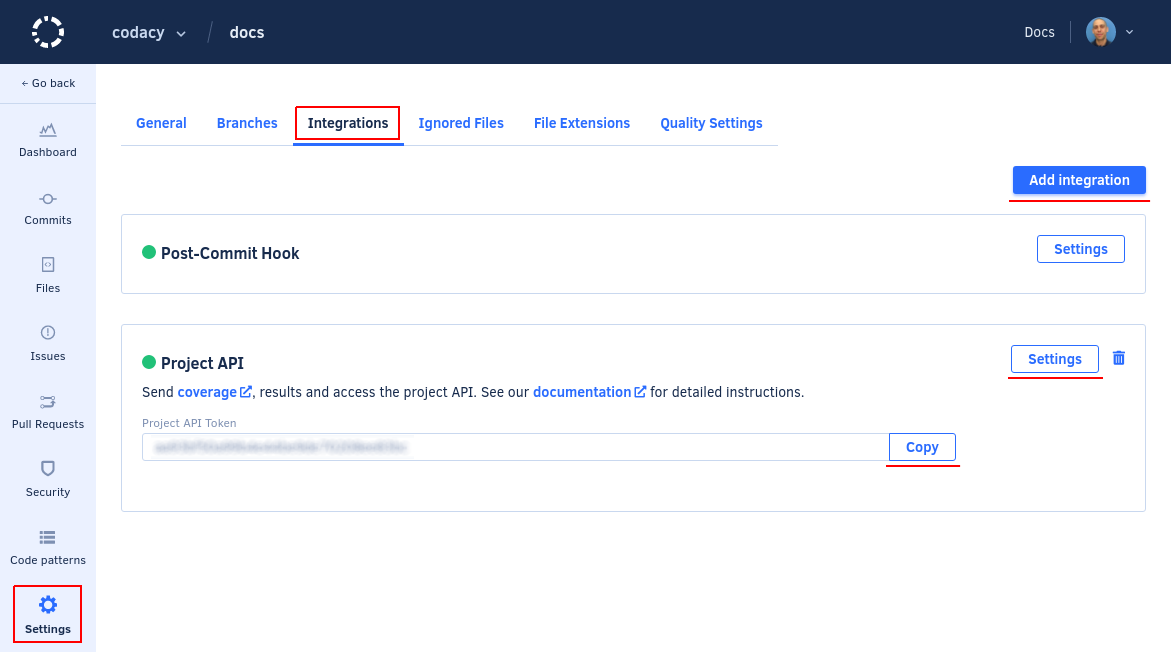
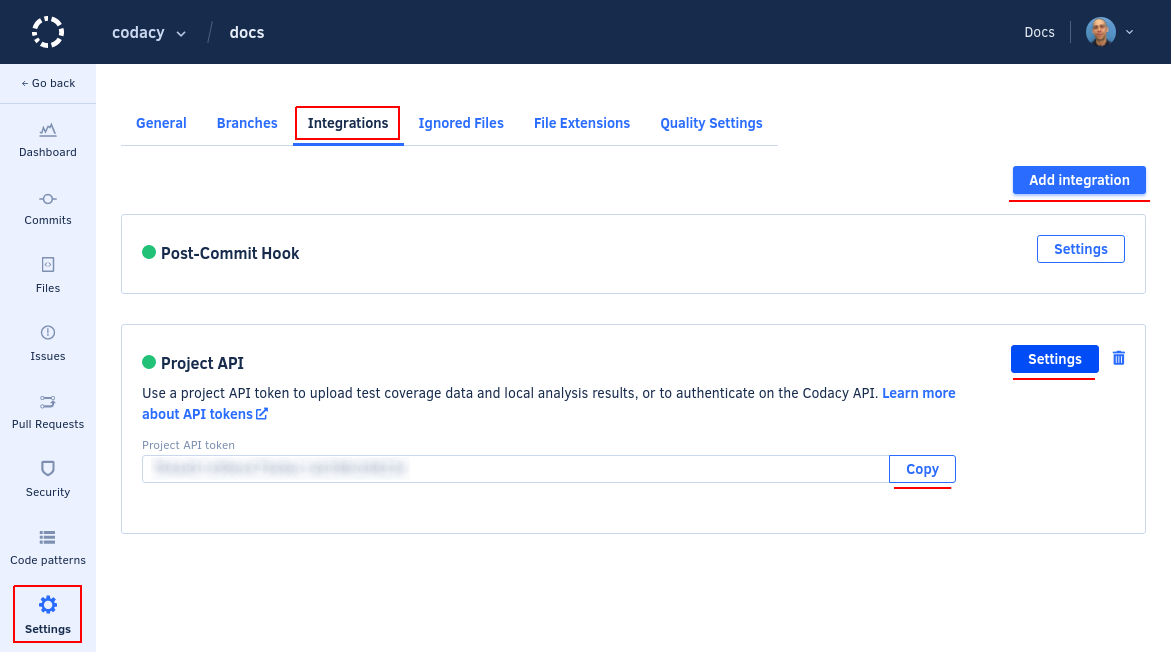
clean: Update creating and revoking project API tokens

Changed region(s): [[0.123, 0.5828, 0.8301, 0.7362], [0.8608, 0.5215, 0.953, 0.5828], [0.7378, 0.6748, 0.8301, 0.7669]]

diff --git a/docs/codacy-api/api-tokens.md b/docs/codacy-api/api-tokens.md
@@ -45,7 +45,7 @@ To generate a project API token:
 
 1.  Click the button **Settings** on the **Project API** integration and copy the project API token.
 
-    ![Project API token](images/codacy-api-tokens-project.png)
+    ![Creating a project API token](images/codacy-api-tokens-project.png)
 
 To revoke a project API token, click the trash can icon for the corresponding **Project API** integration. After this, all applications or services using that token to access the Codacy API will fail to authenticate and will receive the reply `{"error":"not found"}`.
 
